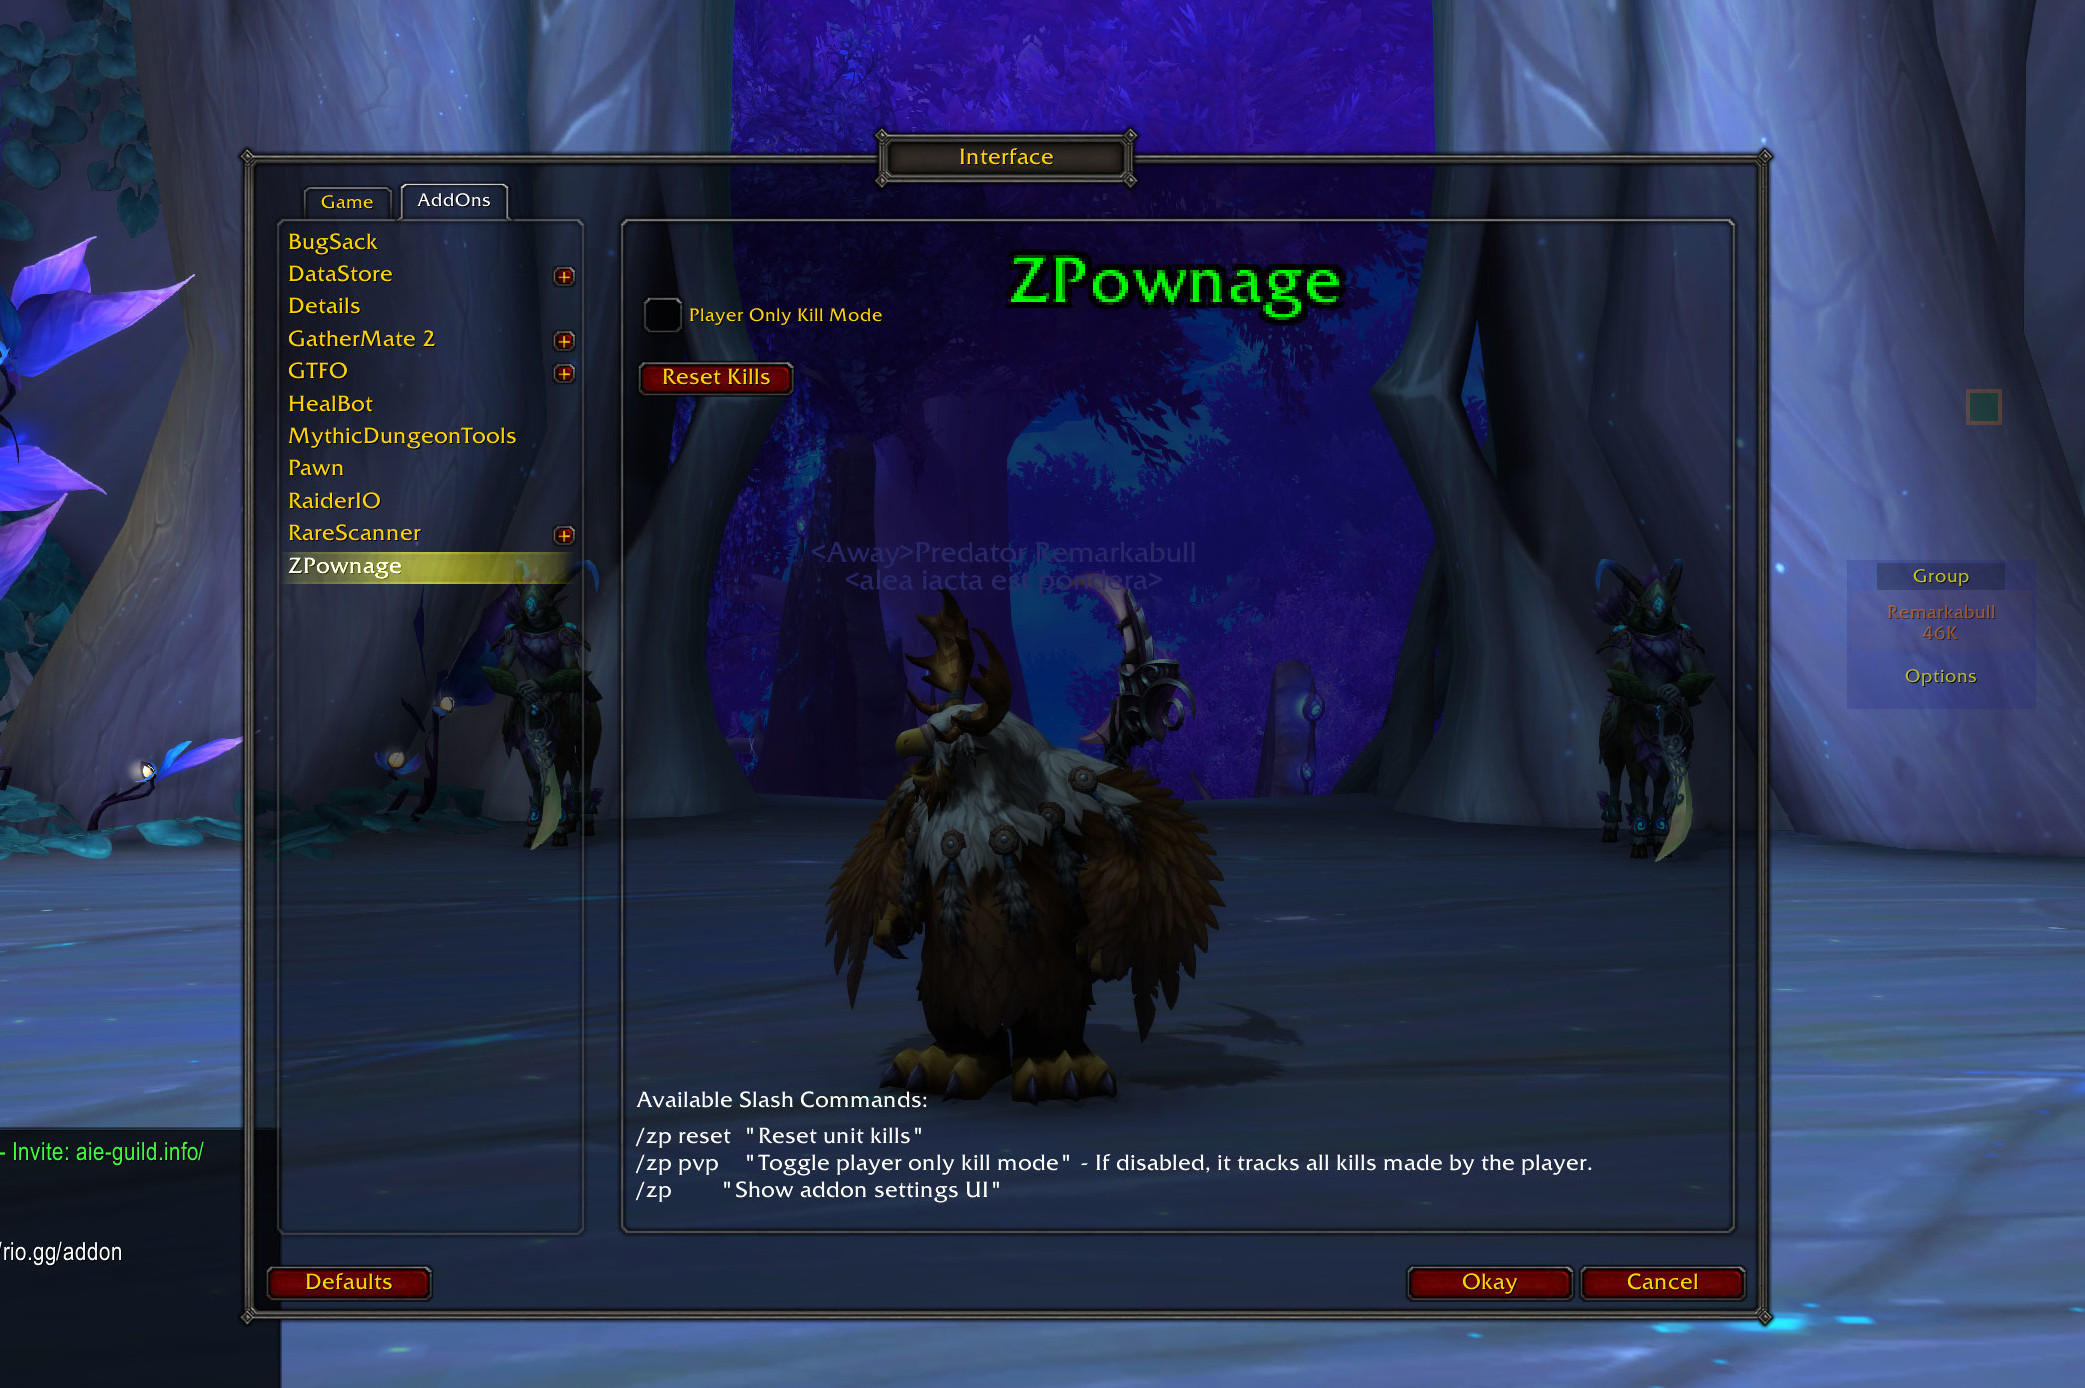
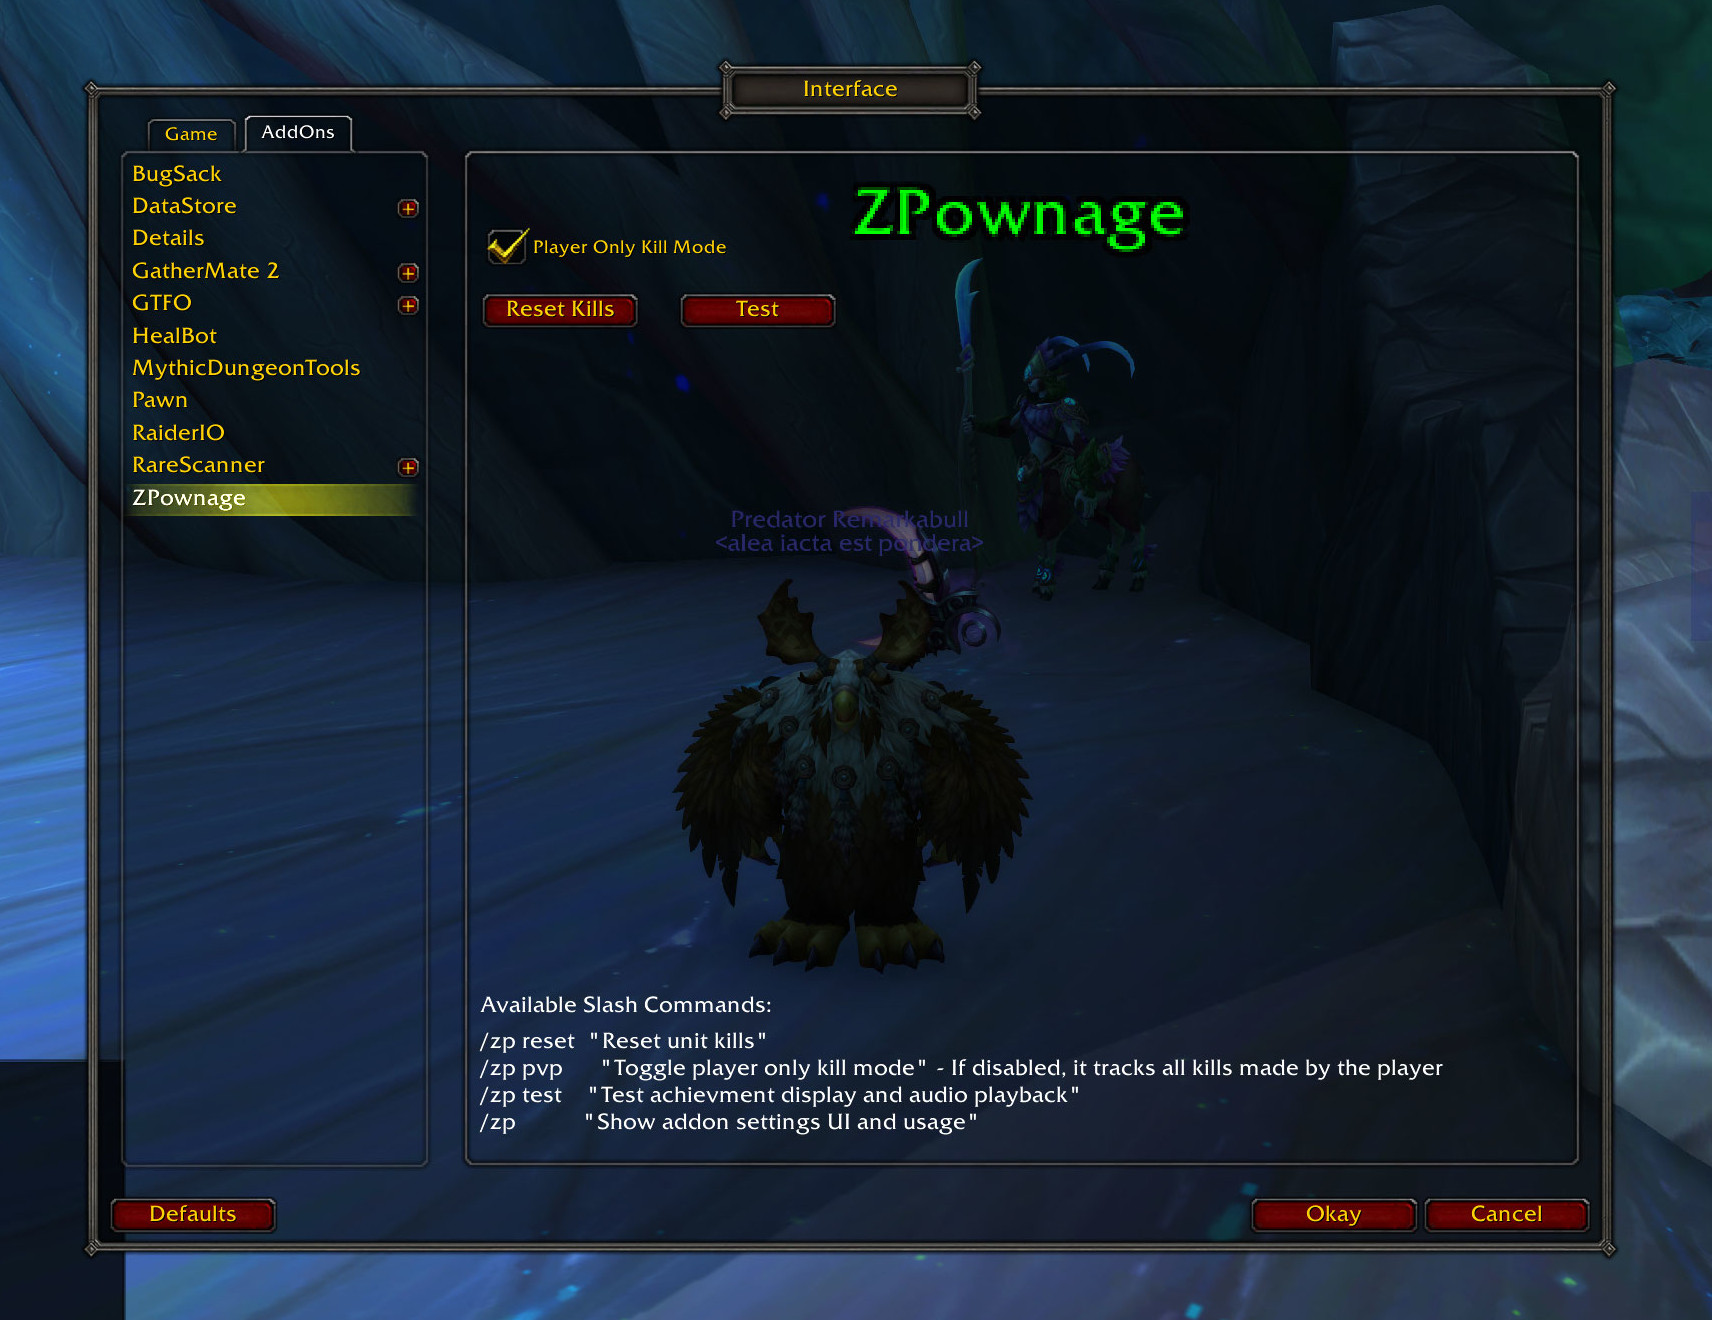
Added ability to test achievement messages from the ZPownage setting UI, and from the console with a Slash Command. Added more into to the readme concerning the settings UI and WOW audio setting related to achievement audio playback.

diff --git a/README.md b/README.md
@@ -1,4 +1,4 @@
-# ZPownage v1.1.0.1
+# ZPownage v1.2.0
 A World of Warcraft addon which tracks player kills, and awards the player with Unreal Tournament style achievements.
 
 ![ZPownageLogo](https://github.com/zxeltor/zpownage/blob/main/Screenshots/BoomkinDance_400x400.png)
@@ -6,18 +6,19 @@ A World of Warcraft addon which tracks player kills, and awards the player with 
 ## Overview 
 This addon tracks player kills, and awards the player with Unreal Tournament style achievements.  Achievements for multi-kills and killing sprees are displayed to the user as a flash of text in the middle of the screen, along with audio playback of the Unreal Tournament Announcer.
 
-**Note:** This addon is for fun only. This has no affect on your official in game statistics tracked by Blizzard.
+Note: This addon is for fun only. This has no affect on your official in game statistics tracked by Blizzard.
 
 ## Details 
 The addon maintains a list of units attacked by the player while in combat. Each unit killed by the player while in combat is counted as a kill. When the player reaches certain consecutive kill achievements, a message is displayed to the screen, along with an audio file playback from the Unreal Tournament Announcer.
 
 Your consecutive kill count is reset when you enter a new zone, or player death occurs. This puts you back at the bottom of the achievement list.
 
-**Note(s):**
+Note(s):
 * If you attack a unit, then leave combat with the unit before they die, you won't get credit for the kill.
 * Group unit kills don't count towards a players kill count, unless the player actually attacked the killed unit.
 
-## Scoring 
+
+## Kill Scoring 
 
 ### Killing Sprees
 Awards for every 5th kill without dying
@@ -40,10 +41,33 @@ Awards for building up chains of kills in quick succession (4 seconds apart or l
 * Ludicrous Kill - 7 kills
 * HOLY S**T - 8+ kills
 
+
+## Settings
+The WOW Interface AddOn UI has a section for ZPownage settings.
+
+![ZPownageConfigSettings](https://github.com/zxeltor/zpownage/blob/main/Screenshots/ConfigUi.jpg)
+
+* You can set the addon to track player kills only, or all kills.
+* Reset your kill count. This resets you consecutive kills and achievments.
+* Test kill achievment display on your screen, along with the associated audio playback.
+
+You can open this Zpownage settings dialog through the WOW interface, or by using the Slash Command: "/zp"
+
+
+## Audio Playback
+Audio playback occurs with each achievment notification. To hear the audio playback you need to have Sound Effects enabled in WOW Sound settings.
+
+![WowAudioSettings](https://github.com/zxeltor/zpownage/blob/main/Screenshots/AudioSettings.jpg)
+
+You can test audio playback by using using the Test button in the ZPownage settings UI above, or by using the Slash Command: "/zp test"
+
+
 ## Slash Commands
 * /zp reset "Reset unit kills"
-* /zp pvp   "Toggle player only kill mode" - By default the addon only tracks player kills. If disabled, it tracks all kills made by the player.
-* /zp   "Show addon settings UI"
+* /zp pvp   "Toggle player only kill mode" - By default the addon only tracks player kills. If disabled, it tracks all kills made by the player."
+* /zp test  "Test achievment display and audio playback"
+* /zp       "Show addon settings UI"
+
 
 ## Installation
 ### Manual Install
